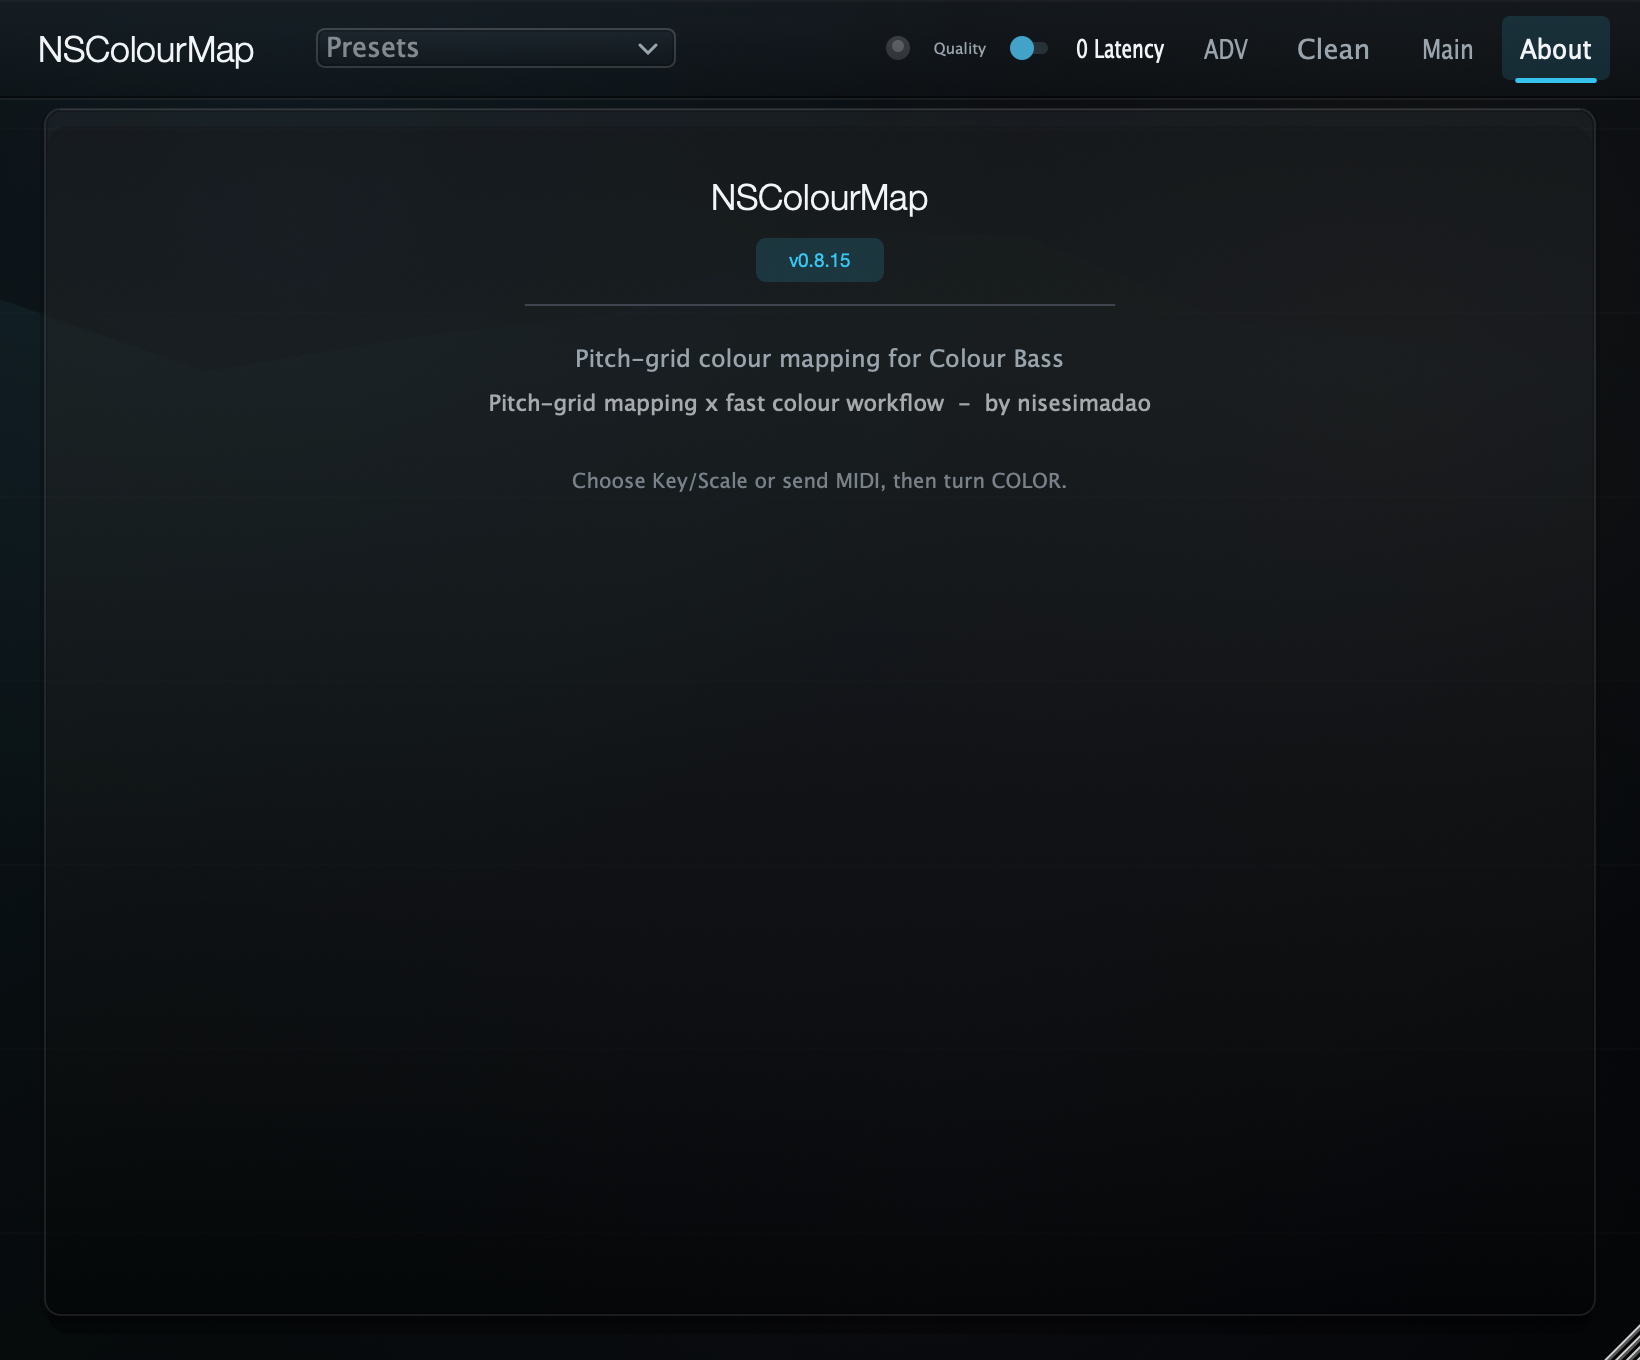
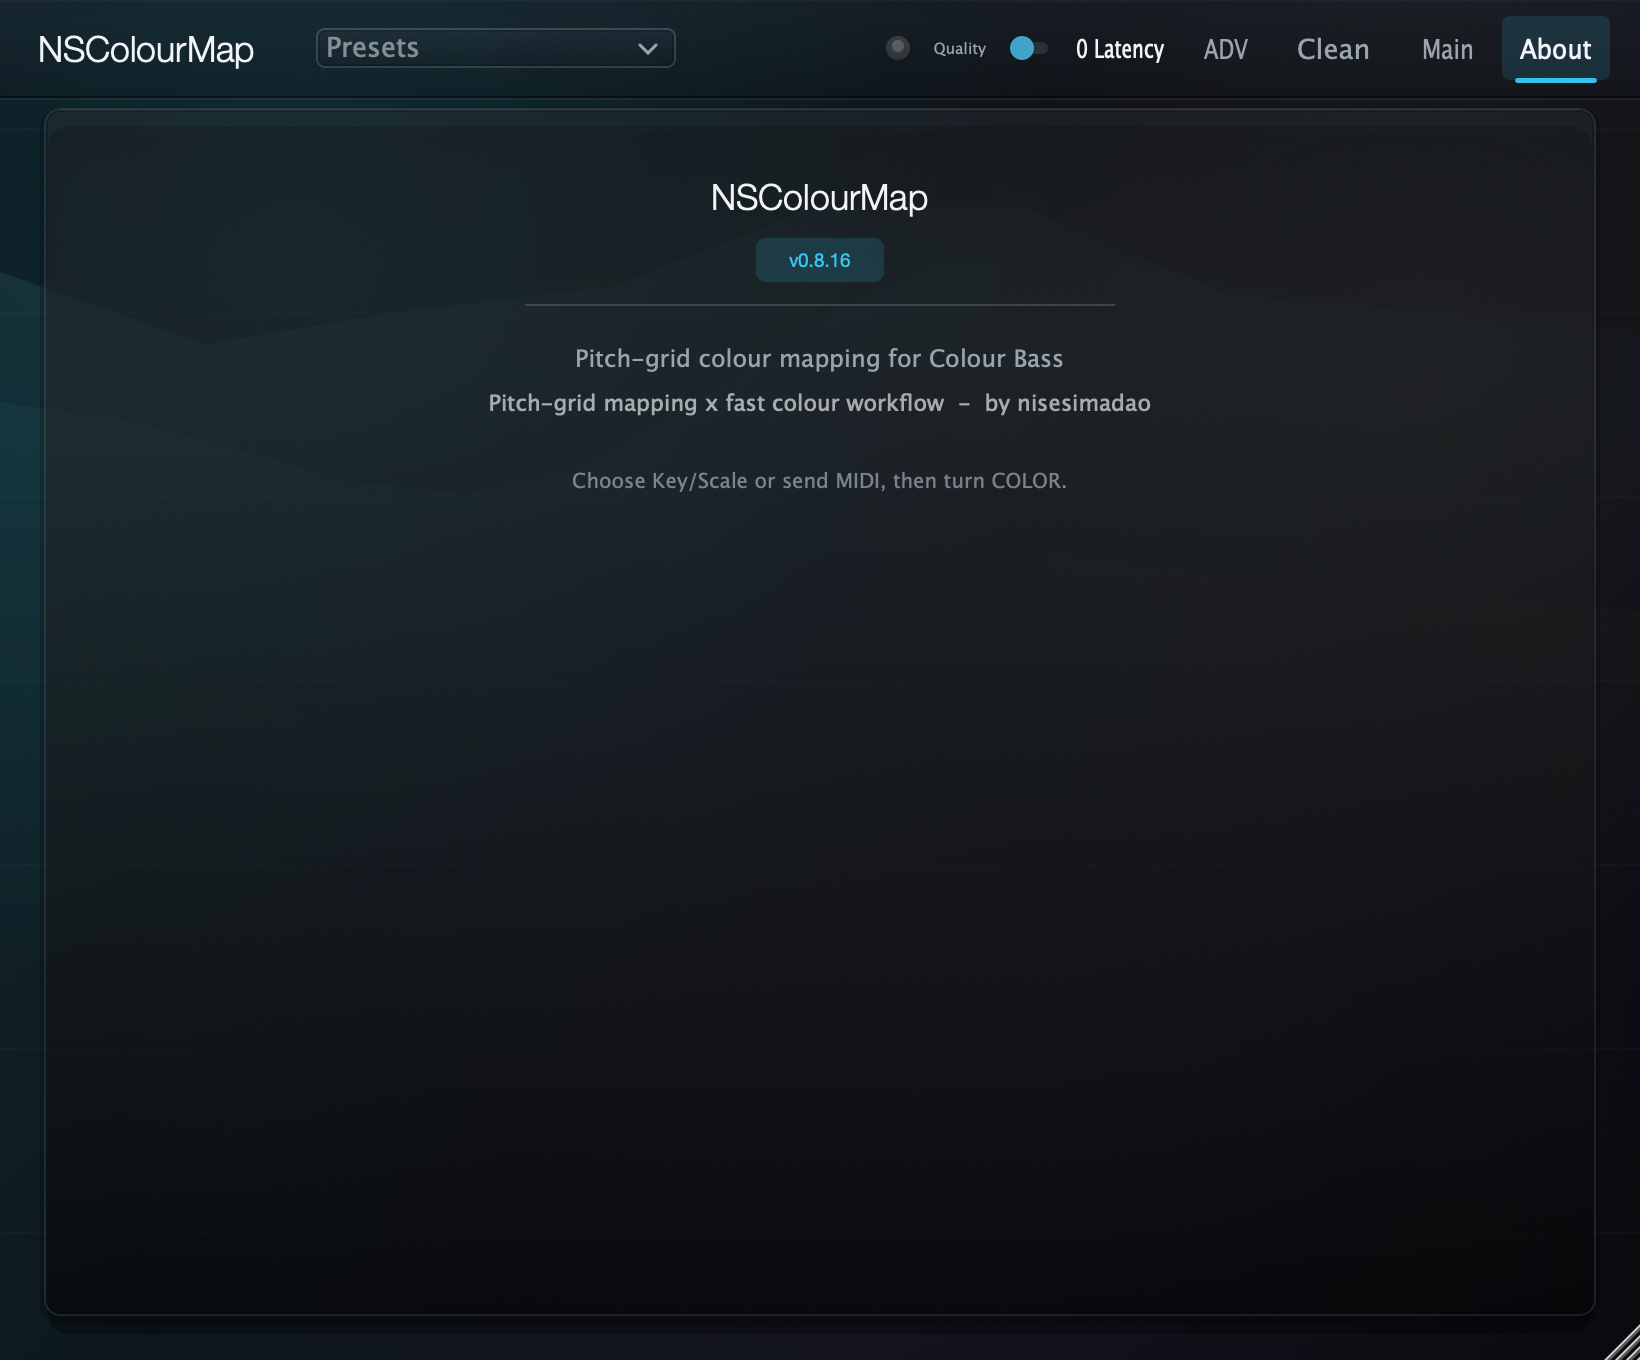
feat: strengthen dark Big Sur style wallpaper
The glass backdrop now has stronger dark abstract wallpaper bands with localized teal, violet, and warm accents while keeping the UI readable through the existing glass panels. README screenshots are regenerated.

Version 0.8.16.

Changed region(s): [[0.0, 0.2779, 0.0311, 0.6485], [0.0, 0.1853, 0.0311, 0.2471]]

diff --git a/Source/PluginEditor.cpp b/Source/PluginEditor.cpp
@@ -55,10 +55,10 @@ float midiHz (float note) { return 440.0f * std::pow (2.0f, (note - 69.0f) / 12.
 
 void drawWallpaperBackdrop (juce::Graphics& g, juce::Rectangle<float> r)
 {
-    juce::ColourGradient base (juce::Colour { 0xff11161bu }, r.getX(), r.getY(),
-                               juce::Colour { 0xff050709u }, r.getX(), r.getBottom(), false);
-    base.addColour (0.44, juce::Colour { 0xff0b1015u });
-    base.addColour (0.78, juce::Colour { 0xff07090cu });
+    juce::ColourGradient base (juce::Colour { 0xff121820u }, r.getX(), r.getY(),
+                               juce::Colour { 0xff050609u }, r.getX(), r.getBottom(), false);
+    base.addColour (0.36, juce::Colour { 0xff0b1118u });
+    base.addColour (0.72, juce::Colour { 0xff07080du });
     g.setGradientFill (base);
     g.fillRect (r);
 
@@ -70,12 +70,39 @@ void drawWallpaperBackdrop (juce::Graphics& g, juce::Rectangle<float> r)
         g.fillEllipse (juce::Rectangle<float> (radius * 2.0f, radius * 2.0f).withCentre ({ x, y }));
     };
 
-    radial (juce::Colour { 0xff2b5f72u }, r.getX() + r.getWidth() * 0.18f, r.getY() + r.getHeight() * 0.16f, r.getWidth() * 0.42f, 0.20f);
-    radial (juce::Colour { 0xff62432du }, r.getX() + r.getWidth() * 0.84f, r.getY() + r.getHeight() * 0.30f, r.getWidth() * 0.34f, 0.13f);
-    radial (juce::Colour { 0xff5d4d84u }, r.getX() + r.getWidth() * 0.58f, r.getY() + r.getHeight() * 0.88f, r.getWidth() * 0.48f, 0.10f);
+    radial (juce::Colour { 0xff1d7c8du }, r.getX() + r.getWidth() * 0.18f, r.getY() + r.getHeight() * 0.18f, r.getWidth() * 0.46f, 0.34f);
+    radial (juce::Colour { 0xff735140u }, r.getX() + r.getWidth() * 0.86f, r.getY() + r.getHeight() * 0.29f, r.getWidth() * 0.36f, 0.20f);
+    radial (juce::Colour { 0xff6747a2u }, r.getX() + r.getWidth() * 0.58f, r.getY() + r.getHeight() * 0.82f, r.getWidth() * 0.50f, 0.16f);
+
+    auto fillRibbon = [&] (float yBase, float ampA, float ampB, juce::Colour left, juce::Colour right, float alpha)
+    {
+        juce::Path p;
+        p.startNewSubPath (r.getX() - 80.0f, yBase);
+        for (int i = 0; i <= 14; ++i)
+        {
+            const float t = (float) i / 14.0f;
+            const float x = r.getX() + r.getWidth() * t;
+            const float y = yBase + std::sin ((t + 0.08f) * juce::MathConstants<float>::twoPi * 0.92f) * ampA
+                                  + std::sin ((t + 0.27f) * juce::MathConstants<float>::twoPi * 2.10f) * ampB;
+            p.lineTo (x, y);
+        }
+        p.lineTo (r.getRight() + 80.0f, r.getBottom() + 70.0f);
+        p.lineTo (r.getX() - 80.0f, r.getBottom() + 70.0f);
+        p.closeSubPath();
+
+        juce::ColourGradient grad (left.withAlpha (alpha), r.getX(), yBase,
+                                   right.withAlpha (alpha * 0.42f), r.getRight(), r.getBottom(), false);
+        g.setGradientFill (grad);
+        g.fillPath (p);
+    };
+
+    fillRibbon (r.getY() + r.getHeight() * 0.27f, 56.0f, 18.0f,
+                juce::Colour { 0xff1a6d78u }, juce::Colour { 0xff2b1636u }, 0.18f);
+    fillRibbon (r.getY() + r.getHeight() * 0.47f, 42.0f, 14.0f,
+                juce::Colour { 0xff0a3038u }, juce::Colour { 0xff7c4732u }, 0.11f);
 
     juce::Path ribbon;
-    const float top = r.getY() + r.getHeight() * 0.22f;
+    const float top = r.getY() + r.getHeight() * 0.20f;
     ribbon.startNewSubPath (r.getX() - 40.0f, top);
     for (int i = 0; i <= 8; ++i)
     {
@@ -89,19 +116,19 @@ void drawWallpaperBackdrop (juce::Graphics& g, juce::Rectangle<float> r)
     ribbon.lineTo (r.getX() - 40.0f, r.getBottom() + 40.0f);
     ribbon.closeSubPath();
 
-    juce::ColourGradient veil (juce::Colour { 0x145ec8d8u }, r.getX(), top,
-                               juce::Colour { 0x03000000u }, r.getRight(), r.getBottom(), false);
+    juce::ColourGradient veil (juce::Colour { 0x225ec8d8u }, r.getX(), top,
+                               juce::Colour { 0x051a1026u }, r.getRight(), r.getBottom(), false);
     g.setGradientFill (veil);
     g.fillPath (ribbon);
 
-    g.setColour (juce::Colours::white.withAlpha (0.018f));
+    g.setColour (juce::Colours::white.withAlpha (0.022f));
     for (int i = 0; i < 10; ++i)
     {
         const float y = r.getY() + 64.0f + (float) i * 92.0f;
         g.drawHorizontalLine (juce::roundToInt (y), r.getX(), r.getRight());
     }
 
-    g.setColour (juce::Colours::black.withAlpha (0.30f));
+    g.setColour (juce::Colours::black.withAlpha (0.22f));
     g.fillRect (r);
 }
 
@@ -949,7 +976,7 @@ void NSColourMapAudioProcessorEditor::paint (juce::Graphics& g)
         g.fillRoundedRectangle (badge, 5.0f);
         g.setColour (accent);
         g.setFont (sectionFont());
-        g.drawText ("v0.8.15", badge.toNearestInt(), juce::Justification::centred);
+        g.drawText ("v0.8.16", badge.toNearestInt(), juce::Justification::centred);
         area.removeFromTop (34);
 
         g.setColour (panelLight.brighter (0.1f));